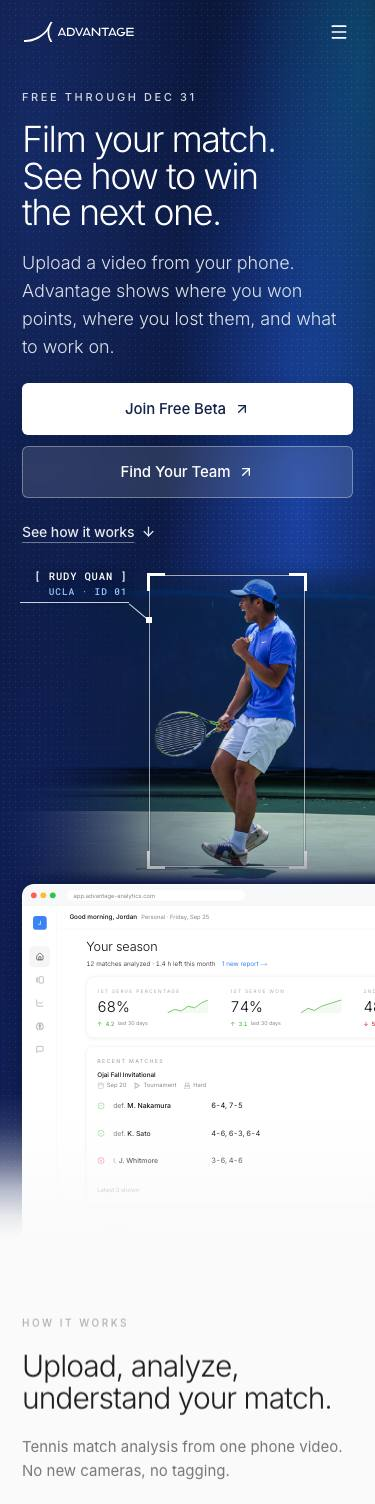
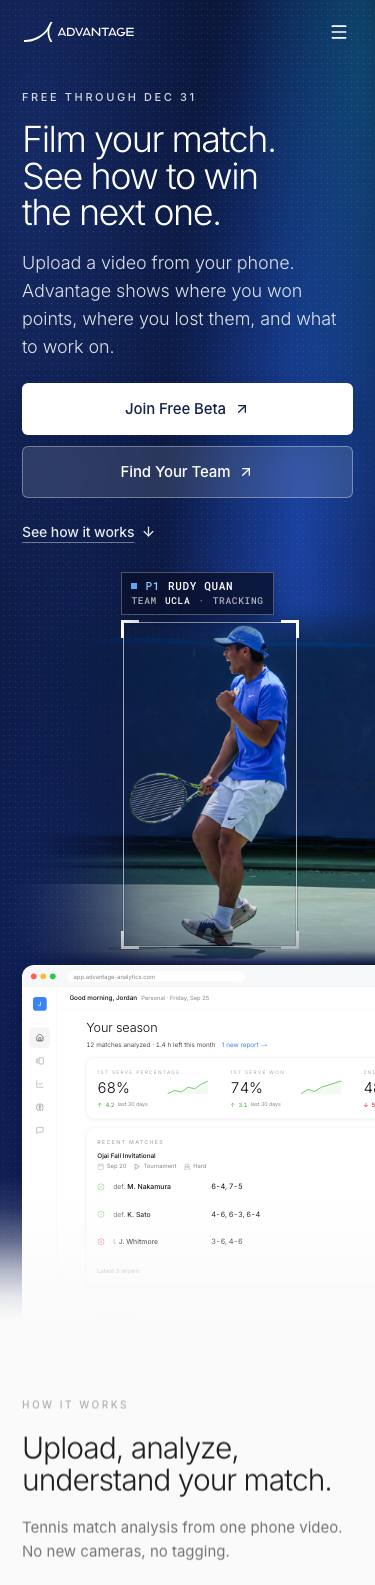
Use the HUD read-out (tag A) for the hero player label
Fork of the angled-callout version: the tracking box's label is a frosted
navy HUD panel above its top-left corner, P1 RUDY QUAN over TEAM UCLA ·
TRACKING in mono.

diff --git a/src/app/perspective.css b/src/app/perspective.css
@@ -799,25 +799,19 @@ section.band.final-band { position: relative; overflow: hidden; padding: 130px 0
 .hh-track .tr { top: -3px; right: -3px; border-top-width: 3px; border-right-width: 3px; }
 .hh-track .bl { bottom: -3px; left: -3px; border-bottom-width: 3px; border-left-width: 3px; }
 .hh-track .br { bottom: -3px; right: -3px; border-bottom-width: 3px; border-right-width: 3px; }
-/* The callout, anchored on the box's left edge. The leader is a
-   hairline of length --hh-lead hinged at that corner and tipped up-left by
-   --hh-angle; the label's own bottom rule is the flat run, seated exactly
-   on the leader's far end (--hh-lead-x, --hh-lead-y: the leader's run and
-   rise, cos and sin of the angle times its length), so the line reads as
-   one stroke that bends. Mono, uppercase, bracketed: a measurement read-out,
-   not a badge. */
-.hh-track { --hh-lead: 40px; --hh-lead-x: 30.64px; --hh-lead-y: 25.71px; }
-/* Hinged on the box's left edge at head height rather than its corner, so
-   the label sits beside the player, clear of the nav above. */
-.hh-track .callout { position: absolute; left: -1px; top: 15%; width: 0; height: 0; }
-.hh-track .callout::before { content: ""; position: absolute; left: -3px; top: -3px; width: 6px; height: 6px; background: #fff; }
-.hh-track .leader { position: absolute; right: 0; top: 0; width: var(--hh-lead); height: 1px; background: rgba(255,255,255,.8);
-  transform-origin: 100% 50%; transform: rotate(40deg); }
-.hh-track .label { position: absolute; right: var(--hh-lead-x); bottom: var(--hh-lead-y); display: grid; justify-items: end; gap: 6px;
-  padding: 0 2px 7px 14px; border-bottom: 1px solid rgba(255,255,255,.8); white-space: nowrap;
-  font: var(--fw-medium) 12px/1 var(--font-mono); letter-spacing: .08em; text-transform: uppercase; color: #fff;
-  text-shadow: 0 1px 10px rgba(6,12,32,.6); }
-.hh-track .label .meta { font-size: 11px; color: #93C5FD; }
+/* The read-out: a HUD panel seated just above the box's top-left corner.
+   Two mono lines on a frosted navy plate with a hairline frame: a square
+   marker and the player ID in light blue, the name; then the team and the
+   tracking state, quieter. A measurement read-out, not a badge. */
+.hh-track .hud { position: absolute; left: -3px; bottom: calc(100% + 8px); display: grid; gap: 5px; padding: 8px 11px 9px;
+  background: rgba(8,16,42,.78); border: 1px solid rgba(255,255,255,.28); -webkit-backdrop-filter: blur(6px); backdrop-filter: blur(6px);
+  white-space: nowrap; font: var(--fw-medium) 12px/1 var(--font-mono); letter-spacing: .06em; text-transform: uppercase; color: #fff;
+  box-shadow: 0 10px 24px -10px rgba(4,10,30,.7); }
+.hh-track .hud .l1 { display: flex; align-items: center; gap: 8px; }
+.hh-track .hud .rec { width: 6px; height: 6px; background: #60A5FA; }
+.hh-track .hud .pid { color: #93C5FD; }
+.hh-track .hud .l2 { display: flex; gap: 8px; font-size: 10.5px; color: rgba(255,255,255,.66); }
+.hh-track .hud .l2 .v { color: #fff; }
 
 /* The computer screen: the dashboard Home's 1440 artboard under a browser
    bar, scaled to the container by useScaleToFit and cut off partway down.
@@ -853,14 +847,14 @@ section.band.final-band { position: relative; overflow: hidden; padding: 130px 0
   .hh-inner { flex-direction: column; align-items: flex-start; min-height: 0; padding-top: 104px; padding-bottom: 0; }
   .hh-copy { gap: 18px; }
   .hh-title { font-size: 44px; }
-  .hh-scene { position: relative; top: auto; bottom: auto; margin-top: 8px; }
+  .hh-scene { position: relative; top: auto; bottom: auto; margin-top: 52px; }
   .hh-wide { position: relative; right: auto; aspect-ratio: auto;
     --hh-ramp: linear-gradient(to right, transparent 0%, rgba(0,0,0,.08) 8%, rgba(0,0,0,.3) 18%, rgba(0,0,0,.65) 28%, #000 38%); }
-  .hh-track { right: 0; width: min(70%, 340px); --hh-lead: 26px; --hh-lead-x: 19.92px; --hh-lead-y: 16.71px; }
-  .hh-track .label { font-size: 10.5px; gap: 5px; padding-bottom: 6px; }
-  .hh-track .label .meta { font-size: 9.5px; }
-  .hh-figure { position: relative; width: min(70%, 340px); margin-left: auto; }
-  .hh-ext { right: calc(min(70%, 340px) * .97); }
+  .hh-track { right: 0; width: min(78%, 380px); }
+  .hh-track .hud { font-size: 11px; padding: 7px 9px 8px; }
+  .hh-track .hud .l2 { font-size: 9.5px; }
+  .hh-figure { position: relative; width: min(78%, 380px); margin-left: auto; }
+  .hh-ext { right: calc(min(78%, 380px) * .97); }
   .hh-screen { width: 150%; border-radius: 12px 12px 0 0; }
   .hh::after { height: clamp(150px, 40vw, 300px); }
 }

diff --git a/src/components/perspective/hero.tsx b/src/components/perspective/hero.tsx
@@ -174,15 +174,19 @@ export function PerspectiveHero() {
               }}
             >
               <i className="c tl" /><i className="c tr" /><i className="c bl" /><i className="c br" />
-              {/* The callout: a leader line leaves the box's top-left corner at
-                  an angle, turns flat, and carries the label out to the left. */}
-              <span className="callout">
-                <i className="leader" />
-                <span className="label">
-                  <span className="nm">[ {HERO_PHOTO.track.label} ]</span>
-                  <span className="meta">
-                    {HERO_PHOTO.track.team} · ID {HERO_PHOTO.track.id}
-                  </span>
+              {/* The read-out: a HUD panel seated above the box's top-left
+                  corner, the way the app labels a tracked player. */}
+              <span className="hud">
+                <span className="l1">
+                  <i className="rec" />
+                  <span className="pid">P{Number(HERO_PHOTO.track.id)}</span>
+                  <span>{HERO_PHOTO.track.label}</span>
+                </span>
+                <span className="l2">
+                  <span>Team</span>
+                  <span className="v">{HERO_PHOTO.track.team}</span>
+                  <span aria-hidden="true">·</span>
+                  <span>Tracking</span>
                 </span>
               </span>
             </div>

diff --git a/DESIGN.md b/DESIGN.md
@@ -4,7 +4,7 @@ Visual system for the Advantage landing page, vendored from the `advantage-dashb
 
 ## Visual Theme
 
-Light, clean, high-clarity — Stripe/Linear tech-minimal. One deliberate dark band (final CTA) for contrast as punctuation. Borders for structure, soft shadows for elevation, generous whitespace. Photography of real players is the hero imagery: a photo on the hero's right, shown whole, its background extended to the left and fading on one long gradient into the brand mesh in its deep navy register (with the live dot grid) the white type sits on, and marked with a square player-tracking box and an angled mono callout naming the player; product UI sits under it on a computer screen that fades into the next section, and as the proof further down the page.
+Light, clean, high-clarity — Stripe/Linear tech-minimal. One deliberate dark band (final CTA) for contrast as punctuation. Borders for structure, soft shadows for elevation, generous whitespace. Photography of real players is the hero imagery: a photo on the hero's right, shown whole, its background extended to the left and fading on one long gradient into the brand mesh in its deep navy register (with the live dot grid) the white type sits on, and marked with a square player-tracking box and a mono HUD read-out naming the player; product UI sits under it on a computer screen that fades into the next section, and as the proof further down the page.
 
 ## Color
 

diff --git a/review/landing-human-hero/SUMMARY.md b/review/landing-human-hero/SUMMARY.md
@@ -22,9 +22,10 @@ than create `landing-human-hero`). Nothing pushed or deployed; `main` untouched.
   set a little stronger in the hero (`<LiveDots glow={2.2} />`; the default, used
   everywhere else and in the dashboard's copy, is unchanged).
 - A square player-tracking box (no rounded corners) frames the player and
-  the racket. A callout leaves its left edge at head height on an angled
-  hairline leader, turns flat, and carries a mono read-out out to the left:
-  "[ RUDY QUAN ]" over "UCLA · ID 01". The label, team and ID live in
+  the racket. A HUD read-out sits above its top-left corner: two mono lines
+  on a frosted navy plate, "P1 RUDY QUAN" over "TEAM UCLA · TRACKING".
+  (This is the tag-A fork, branch `claude/hero-tag-a`; the angled callout
+  is on `claude/competent-neumann-a64ded`.) The label, team and ID live in
   `HERO_PHOTO.track` in `hero.tsx`.
 - Under the copy and the photo, the dashboard sits on a computer screen (a
   browser window, full container width) that fades out into the next section.
